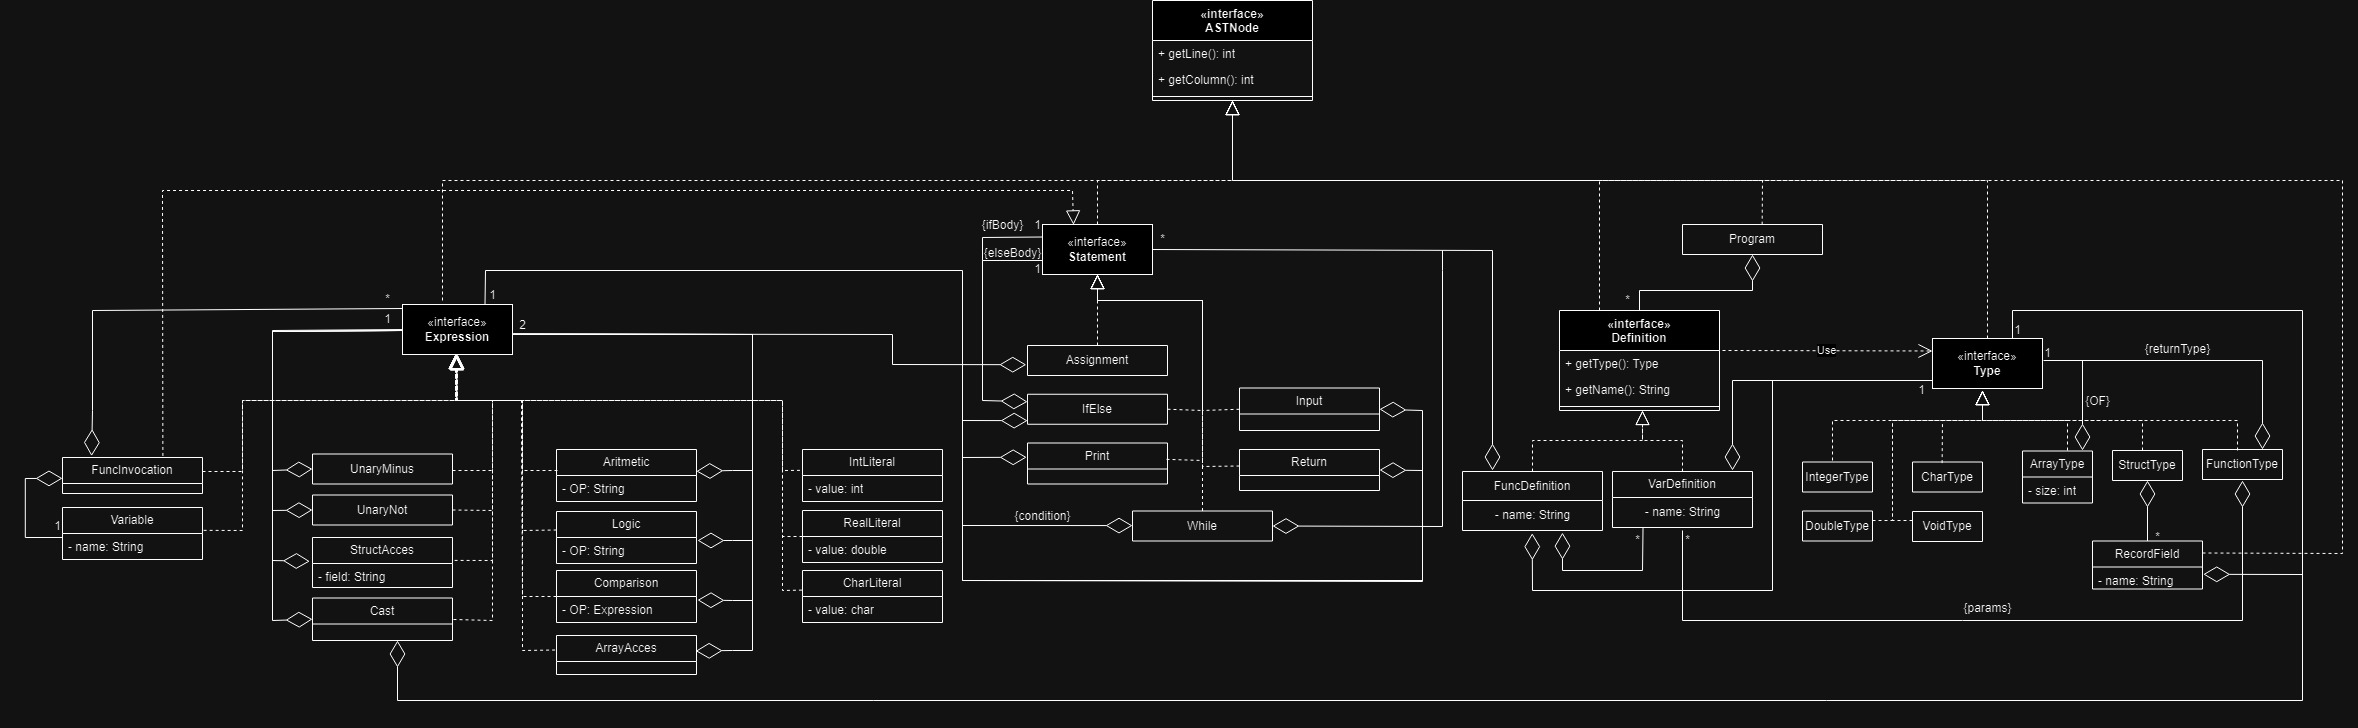
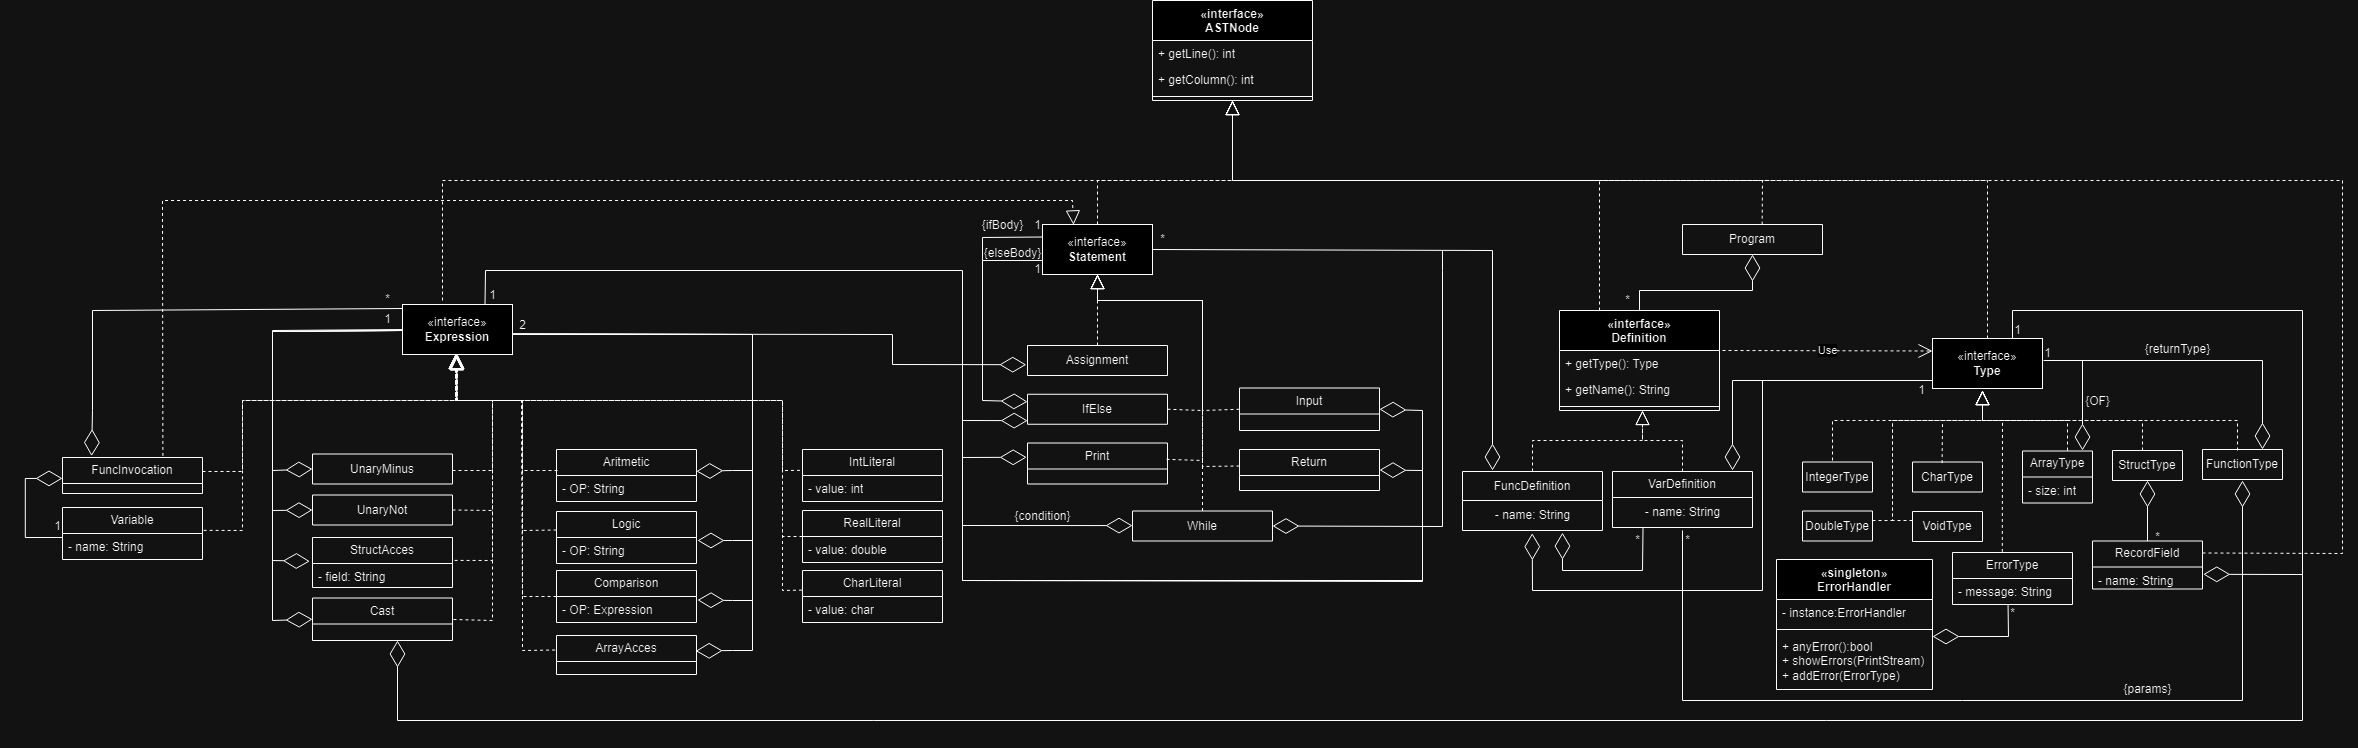
DLP Clase 6

diff --git a/src/parser/PmmParser.java b/src/parser/PmmParser.java
@@ -1,4 +1,4 @@
-// Generated from C:/Users/UO287747/Desktop/EII_3_DLP/src/parser/Pmm.g4 by ANTLR 4.13.1
+// Generated from C:/Users/angel/Desktop/EII_3_DLP/src/parser/Pmm.g4 by ANTLR 4.13.1
 package parser;
 
     import ast.*;
@@ -1289,7 +1289,10 @@ public class PmmParser extends Parser {
 
 
 			                for (Variable v: ((Var_definitionContext)_localctx).variables.ast) {
-			                    _localctx.ast.add( new VarDefinition(v.getLine(), v.getColumn(), ((Var_definitionContext)_localctx).type.ast, v.getName()));
+
+			                    VarDefinition vd = new VarDefinition(v.getLine(), v.getColumn(), ((Var_definitionContext)_localctx).type.ast, v.getName());
+			                    if (!_localctx.ast.contains(vd)) { _localctx.ast.add(vd); }
+			                    else { new ErrorType(v.getLine(), v.getColumn(), "La variable " + v.getName() + " ya se ha declarado."); }
 			                }
 			            
 			}
@@ -1542,7 +1545,10 @@ public class PmmParser extends Parser {
 
 
 					            for (Variable v: ((Struct_fieldContext)_localctx).variables.ast) {
-					                _localctx.ast.add( new RecordField(v.getLine(), v.getColumn(), v.getName(), ((Struct_fieldContext)_localctx).type.ast));
+
+					                RecordField rf = new RecordField(v.getLine(), v.getColumn(), v.getName(), ((Struct_fieldContext)_localctx).type.ast);
+					                if (!_localctx.ast.contains(rf)) { _localctx.ast.add(rf); }
+					                else { new ErrorType(v.getLine(), v.getColumn(), "El campo " + v.getName() + " ya se ha declarado."); }
 					            }
 					        
 					}

diff --git a/src/ast/ErrorHandler.java b/src/ast/ErrorHandler.java
@@ -6,17 +6,13 @@ import java.io.PrintStream;
 import java.util.ArrayList;
 import java.util.List;
 
-public final class ErrorHandler extends AbstractASTNode {
+public class ErrorHandler {
 
     private static ErrorHandler instance;
-    private List<ErrorType> errors = new ArrayList<ErrorType>();
+    private List<ErrorType> errors;
 
     private ErrorHandler() {
-        super(0,0);
-    }
-
-    private ErrorHandler(int line, int column) {
-        super(line, column);
+        errors = new ArrayList<ErrorType>();
     }
 
     public static ErrorHandler getInstance() {
@@ -33,9 +29,12 @@ public final class ErrorHandler extends AbstractASTNode {
 
     public void showErrors(PrintStream err) {
 
+        for (ErrorType et: errors) {
+            err.println(et);
+        }
     }
 
     public void addError(ErrorType error) {
-        this.errors.add(error);
+        errors.add(error);
     }
 }

diff --git a/src/ast/definitions/VarDefinition.java b/src/ast/definitions/VarDefinition.java
@@ -4,6 +4,8 @@ import ast.AbstractASTNode;
 import ast.Definition;
 import ast.Type;
 
+import java.util.Objects;
+
 public class VarDefinition extends AbstractASTNode implements Definition {
 
     private Type type;
@@ -23,6 +25,19 @@ public class VarDefinition extends AbstractASTNode implements Definition {
     @Override
     public String getName() {
         return null;
+    }
+
+    @Override
+    public boolean equals(Object o) {
+        if (this == o) return true;
+        if (o == null || getClass() != o.getClass()) return false;
+        VarDefinition that = (VarDefinition) o;
+        return name.equals(that.name);
+    }
+
+    @Override
+    public int hashCode() {
+        return Objects.hash(name);
     }
 
     @Override

diff --git a/src/ast/RecordField.java b/src/ast/RecordField.java
@@ -1,5 +1,7 @@
 package ast;
 
+import java.util.Objects;
+
 public class RecordField extends AbstractASTNode {
 
     private String name;
@@ -16,6 +18,19 @@ public class RecordField extends AbstractASTNode {
     }
 
     public Type getType() { return type; }
+
+    @Override
+    public boolean equals(Object o) {
+        if (this == o) return true;
+        if (o == null || getClass() != o.getClass()) return false;
+        RecordField that = (RecordField) o;
+        return name.equals(that.name);
+    }
+
+    @Override
+    public int hashCode() {
+        return Objects.hash(name);
+    }
 
     @Override
     public String toString() {

diff --git a/src/parser/PmmBaseVisitor.java b/src/parser/PmmBaseVisitor.java
@@ -1,4 +1,4 @@
-// Generated from C:/Users/UO287747/Desktop/EII_3_DLP/src/parser/Pmm.g4 by ANTLR 4.13.1
+// Generated from C:/Users/angel/Desktop/EII_3_DLP/src/parser/Pmm.g4 by ANTLR 4.13.1
 package parser;
 
     import ast.*;

diff --git a/src/parser/PmmLexer.java b/src/parser/PmmLexer.java
@@ -1,4 +1,4 @@
-// Generated from C:/Users/UO287747/Desktop/EII_3_DLP/src/parser/Pmm.g4 by ANTLR 4.13.1
+// Generated from C:/Users/angel/Desktop/EII_3_DLP/src/parser/Pmm.g4 by ANTLR 4.13.1
 package parser;
 
     import ast.*;

diff --git a/src/parser/PmmVisitor.java b/src/parser/PmmVisitor.java
@@ -1,4 +1,4 @@
-// Generated from C:/Users/UO287747/Desktop/EII_3_DLP/src/parser/Pmm.g4 by ANTLR 4.13.1
+// Generated from C:/Users/angel/Desktop/EII_3_DLP/src/parser/Pmm.g4 by ANTLR 4.13.1
 package parser;
 
     import ast.*;
